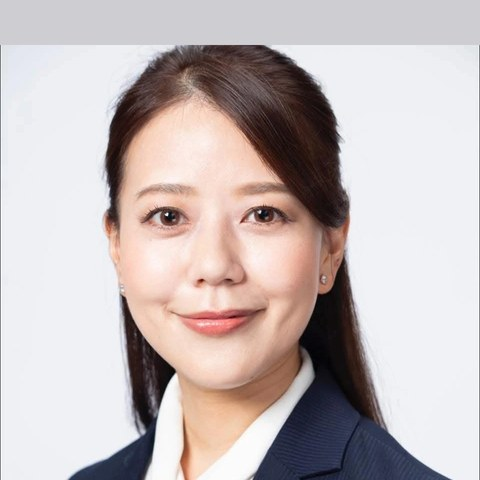
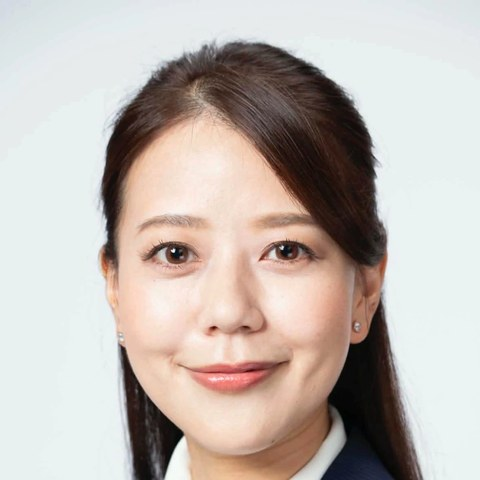
首長コメント: 八幡市長の写真を差し替え、並びを戸田市長の次へ

diff --git a/index.html b/index.html
@@ -253,14 +253,6 @@
 <div class="sec-head reveal"><div class="sec-en">Messages</div><h2 class="sec-ja sec-ja-final">各地の市長・区長からも応援いただいています！</h2></div>
 <div class="ed-list">
 <article class="ed-item">
-<figure class="ed-photo"><img src="uploads/mayors/yawata.jpg" alt="川田 翔子さんの写真" loading="lazy">
-<figcaption class="ed-cap"><span class="ed-role">京都府八幡市長</span><span class="ed-name">川田 翔子</span></figcaption></figure>
-<div class="ed-body">
-<p class="ed-pull"><span class="mark">あたたかな人間性と爽やかな人当たり</span></p>
-<p class="ed-text">白井市長は同じ青年市長会の仲間として、あたたかな人間性と爽やかな人当たり、そして難しい局面の中、沢山の政策を実現して来られた確かな実現力を拝見しており、先輩として尊敬しております。応援しています！頑張ってください！</p>
-</div>
-</article>
-<article class="ed-item rev">
 <figure class="ed-photo"><img src="uploads/mayors/kodaira.jpg" alt="小林 洋子さんの写真" loading="lazy">
 <figcaption class="ed-cap"><span class="ed-role">小平市長</span><span class="ed-name">小林 洋子</span></figcaption></figure>
 <div class="ed-body">
@@ -268,7 +260,7 @@
 <p class="ed-text">隣市として、また昭和病院企業団や湖南衛生組合で共に歩む仲間です。弁当や朝食を担当しながらご自身の子育て経験を市政に生かして頑張る白井さんを心から応援しています。</p>
 </div>
 </article>
-<article class="ed-item">
+<article class="ed-item rev">
 <figure class="ed-photo"><img src="uploads/mayors/tachikawa.jpg" alt="酒井 大史さんの写真" loading="lazy">
 <figcaption class="ed-cap"><span class="ed-role">立川市長</span><span class="ed-name">酒井 大史</span></figcaption></figure>
 <div class="ed-body">
@@ -276,7 +268,7 @@
 <p class="ed-text">白井市長は、子どもから高齢者まで多様な声を束ね前進させる&quot;ハブ&quot;のような包摂力の持ち主。インクルーシブな小金井市の実現を確信し、同世代の市長として応援します。</p>
 </div>
 </article>
-<article class="ed-item rev">
+<article class="ed-item">
 <figure class="ed-photo"><img src="uploads/mayors/nakano.jpg" alt="酒井 直人さんの写真" loading="lazy">
 <figcaption class="ed-cap"><span class="ed-role">中野区長</span><span class="ed-name">酒井 直人</span></figcaption></figure>
 <div class="ed-body">
@@ -284,12 +276,20 @@
 <p class="ed-text">国政と市政は全く異なります。住民に最も身近な地方政府として、JR中央線の自治体同士、小金井市と中野区で連携し地方自治を進めて行きましょう！白井市長、頑張って！</p>
 </div>
 </article>
-<article class="ed-item">
+<article class="ed-item rev">
 <figure class="ed-photo"><img src="uploads/mayors/toda.jpg" alt="菅原 文仁さんの写真" loading="lazy">
 <figcaption class="ed-cap"><span class="ed-role">埼玉県戸田市長</span><span class="ed-name">菅原 文仁</span></figcaption></figure>
 <div class="ed-body">
 <p class="ed-pull"><span class="mark">難しい市政課題に真正面から立ち向かう白井市長</span></p>
 <p class="ed-text">全国青年市長会関東支部で共に切磋琢磨してきました。今後の厳しい社会情勢の中、難しい市政課題に真正面から立ち向かう白井市長を応援しています！</p>
+</div>
+</article>
+<article class="ed-item">
+<figure class="ed-photo"><img src="uploads/mayors/yawata.jpg" alt="川田 翔子さんの写真" loading="lazy">
+<figcaption class="ed-cap"><span class="ed-role">京都府八幡市長</span><span class="ed-name">川田 翔子</span></figcaption></figure>
+<div class="ed-body">
+<p class="ed-pull"><span class="mark">あたたかな人間性と爽やかな人当たり</span></p>
+<p class="ed-text">白井市長は同じ青年市長会の仲間として、あたたかな人間性と爽やかな人当たり、そして難しい局面の中、沢山の政策を実現して来られた確かな実現力を拝見しており、先輩として尊敬しております。応援しています！頑張ってください！</p>
 </div>
 </article>
 <article class="ed-item rev">
@@ -319,23 +319,23 @@
 </div>
 <div class="rel">
 <div class="rel-cap"><b>つながり</b><span>図の中の言葉は、それぞれのコメントから。</span></div>
-<div class="rel-map" role="img" aria-label="白井とおるを中心に、川田 翔子さん(線の言葉「同じ青年市長会の仲間」)、小林 洋子さん(線の言葉「隣市として」)、酒井 大史さん(線の言葉「同世代の市長」)、酒井 直人さん(線の言葉「JR中央線の自治体同士」)、菅原 文仁さん(線の言葉「青年市長会関東支部」)、濵﨑 真也さん(線の言葉「同世代・近隣市長」)、森澤 恭子さん(線の言葉「議員時代からご縁」)、山本 けいさん(線の言葉「青年市長会の仲間」)を線で結んだ図">
-<svg class="svg-pc" viewBox="0 0 1104 620" preserveAspectRatio="none" aria-hidden="true"><polyline points="155.4,188.8 234.7,205.0 552,270 964.1,238.3 1013.5,234.4" fill="none" stroke="#f7a86b" stroke-opacity=".55" stroke-width="10" stroke-linecap="round" stroke-linejoin="round"/><line x1="552" y1="270" x2="100.0" y2="240.0" stroke="#0079bf" stroke-width="2" stroke-dasharray="8 7"/><line x1="552" y1="270" x2="413.3" y2="74.1" stroke="#0079bf" stroke-width="2"/><line x1="552" y1="270" x2="234.7" y2="205.0" stroke="#0079bf" stroke-width="2"/><line x1="552" y1="270" x2="964.1" y2="238.3" stroke="#0079bf" stroke-width="2"/><line x1="552" y1="270" x2="783.2" y2="78.8" stroke="#0079bf" stroke-width="2"/><line x1="552" y1="270" x2="342.4" y2="423.8" stroke="#0079bf" stroke-width="2"/><line x1="552" y1="270" x2="1019.6" y2="497.8" stroke="#0079bf" stroke-width="2"/><line x1="552" y1="270" x2="100.0" y2="401.7" stroke="#0079bf" stroke-width="2" stroke-dasharray="8 7"/><rect x="217.6" y="355.8" width="18" height="18" fill="#fff" transform="rotate(163.8 226.6 364.8)"/><line x1="237.6" y1="370.6" x2="223.2" y2="356.8" stroke="#0079bf" stroke-width="2"/><line x1="229.9" y1="372.9" x2="215.5" y2="359.0" stroke="#0079bf" stroke-width="2"/><rect x="154.3" y="235.2" width="18" height="18" fill="#fff" transform="rotate(-176.2 163.3 244.2)"/><line x1="171.7" y1="253.4" x2="162.9" y2="235.5" stroke="#0079bf" stroke-width="2"/><line x1="163.7" y1="252.9" x2="154.9" y2="234.9" stroke="#0079bf" stroke-width="2"/></svg>
-<svg class="svg-sp" viewBox="0 0 360 620" preserveAspectRatio="none" aria-hidden="true"><polyline points="25.0,167.5 56.0,196.0 180,310 304.0,204.0 318.9,191.3" fill="none" stroke="#f7a86b" stroke-opacity=".55" stroke-width="7" stroke-linecap="round" stroke-linejoin="round"/><line x1="180" y1="310" x2="58.0" y2="448.0" stroke="#0079bf" stroke-width="2" stroke-dasharray="8 7"/><line x1="180" y1="310" x2="112.0" y2="70.0" stroke="#0079bf" stroke-width="2"/><line x1="180" y1="310" x2="56.0" y2="196.0" stroke="#0079bf" stroke-width="2"/><line x1="180" y1="310" x2="304.0" y2="204.0" stroke="#0079bf" stroke-width="2"/><line x1="180" y1="310" x2="282.0" y2="76.0" stroke="#0079bf" stroke-width="2"/><line x1="180" y1="310" x2="56.0" y2="326.0" stroke="#0079bf" stroke-width="2"/><line x1="180" y1="310" x2="300.0" y2="330.0" stroke="#0079bf" stroke-width="2"/><line x1="180" y1="310" x2="184.0" y2="540.0" stroke="#0079bf" stroke-width="2" stroke-dasharray="8 7"/><rect x="173.9" y="466.6" width="18" height="18" fill="#fff" transform="rotate(89.0 182.9 475.6)"/><line x1="191.4" y1="466.5" x2="174.2" y2="476.8" stroke="#0079bf" stroke-width="2"/><line x1="191.5" y1="474.4" x2="174.4" y2="484.7" stroke="#0079bf" stroke-width="2"/><rect x="66.1" y="419.7" width="18" height="18" fill="#fff" transform="rotate(131.5 75.1 428.7)"/><line x1="87.5" y1="427.7" x2="67.9" y2="423.7" stroke="#0079bf" stroke-width="2"/><line x1="82.2" y1="433.7" x2="62.6" y2="429.7" stroke="#0079bf" stroke-width="2"/></svg>
-<span class="rel-tie" style="--x:32.80%;--y:41.51%">同じ青年市長会の仲間</span>
+<div class="rel-map" role="img" aria-label="白井とおるを中心に、小林 洋子さん(線の言葉「隣市として」)、酒井 大史さん(線の言葉「同世代の市長」)、酒井 直人さん(線の言葉「JR中央線の自治体同士」)、菅原 文仁さん(線の言葉「青年市長会関東支部」)、川田 翔子さん(線の言葉「同じ青年市長会の仲間」)、濵﨑 真也さん(線の言葉「同世代・近隣市長」)、森澤 恭子さん(線の言葉「議員時代からご縁」)、山本 けいさん(線の言葉「青年市長会の仲間」)を線で結んだ図">
+<svg class="svg-pc" viewBox="0 0 1104 620" preserveAspectRatio="none" aria-hidden="true"><polyline points="155.4,188.8 234.7,205.0 552,270 964.1,238.3 1013.5,234.4" fill="none" stroke="#f7a86b" stroke-opacity=".55" stroke-width="10" stroke-linecap="round" stroke-linejoin="round"/><line x1="552" y1="270" x2="413.3" y2="74.1" stroke="#0079bf" stroke-width="2"/><line x1="552" y1="270" x2="234.7" y2="205.0" stroke="#0079bf" stroke-width="2"/><line x1="552" y1="270" x2="964.1" y2="238.3" stroke="#0079bf" stroke-width="2"/><line x1="552" y1="270" x2="783.2" y2="78.8" stroke="#0079bf" stroke-width="2"/><line x1="552" y1="270" x2="100.0" y2="240.0" stroke="#0079bf" stroke-width="2" stroke-dasharray="8 7"/><line x1="552" y1="270" x2="342.4" y2="423.8" stroke="#0079bf" stroke-width="2"/><line x1="552" y1="270" x2="1019.6" y2="497.8" stroke="#0079bf" stroke-width="2"/><line x1="552" y1="270" x2="100.0" y2="401.7" stroke="#0079bf" stroke-width="2" stroke-dasharray="8 7"/><rect x="217.6" y="355.8" width="18" height="18" fill="#fff" transform="rotate(163.8 226.6 364.8)"/><line x1="237.6" y1="370.6" x2="223.2" y2="356.8" stroke="#0079bf" stroke-width="2"/><line x1="229.9" y1="372.9" x2="215.5" y2="359.0" stroke="#0079bf" stroke-width="2"/><rect x="154.3" y="235.2" width="18" height="18" fill="#fff" transform="rotate(-176.2 163.3 244.2)"/><line x1="171.7" y1="253.4" x2="162.9" y2="235.5" stroke="#0079bf" stroke-width="2"/><line x1="163.7" y1="252.9" x2="154.9" y2="234.9" stroke="#0079bf" stroke-width="2"/></svg>
+<svg class="svg-sp" viewBox="0 0 360 620" preserveAspectRatio="none" aria-hidden="true"><polyline points="25.0,167.5 56.0,196.0 180,310 304.0,204.0 318.9,191.3" fill="none" stroke="#f7a86b" stroke-opacity=".55" stroke-width="7" stroke-linecap="round" stroke-linejoin="round"/><line x1="180" y1="310" x2="112.0" y2="70.0" stroke="#0079bf" stroke-width="2"/><line x1="180" y1="310" x2="56.0" y2="196.0" stroke="#0079bf" stroke-width="2"/><line x1="180" y1="310" x2="304.0" y2="204.0" stroke="#0079bf" stroke-width="2"/><line x1="180" y1="310" x2="282.0" y2="76.0" stroke="#0079bf" stroke-width="2"/><line x1="180" y1="310" x2="58.0" y2="448.0" stroke="#0079bf" stroke-width="2" stroke-dasharray="8 7"/><line x1="180" y1="310" x2="56.0" y2="326.0" stroke="#0079bf" stroke-width="2"/><line x1="180" y1="310" x2="300.0" y2="330.0" stroke="#0079bf" stroke-width="2"/><line x1="180" y1="310" x2="184.0" y2="540.0" stroke="#0079bf" stroke-width="2" stroke-dasharray="8 7"/><rect x="173.9" y="466.6" width="18" height="18" fill="#fff" transform="rotate(89.0 182.9 475.6)"/><line x1="191.4" y1="466.5" x2="174.2" y2="476.8" stroke="#0079bf" stroke-width="2"/><line x1="191.5" y1="474.4" x2="174.4" y2="484.7" stroke="#0079bf" stroke-width="2"/><rect x="66.1" y="419.7" width="18" height="18" fill="#fff" transform="rotate(131.5 75.1 428.7)"/><line x1="87.5" y1="427.7" x2="67.9" y2="423.7" stroke="#0079bf" stroke-width="2"/><line x1="82.2" y1="433.7" x2="62.6" y2="429.7" stroke="#0079bf" stroke-width="2"/></svg>
 <span class="rel-tie" style="--x:43.47%;--y:27.12%">隣市として</span>
 <span class="rel-tie" style="--x:31.90%;--y:36.95%">同世代の市長</span>
 <span class="rel-tie" style="--x:70.53%;--y:40.73%">JR中央線の自治体同士</span>
 <span class="rel-tie" style="--x:60.89%;--y:27.51%">青年市長会関東支部</span>
+<span class="rel-tie" style="--x:32.80%;--y:41.51%">同じ青年市長会の仲間</span>
 <span class="rel-tie" style="--x:39.75%;--y:56.94%">同世代・近隣市長</span>
 <span class="rel-tie" style="--x:71.18%;--y:61.92%">議員時代からご縁</span>
 <span class="rel-tie" style="--x:33.21%;--y:52.26%">青年市長会の仲間</span>
 <div class="rel-center" style="--x:50.00%;--y:43.55%;--mx:50.00%;--my:50.00%"><img src="uploads/mayors/shirai.jpg" alt=""><b>白井とおる</b></div>
-<div class="rel-node" style="--x:9.06%;--y:38.70%;--mx:16.11%;--my:72.26%"><img src="uploads/mayors/yawata.jpg" alt="" loading="lazy"><b>川田 翔子</b><span class="tie-sp">同じ青年市長会の仲間</span></div>
 <div class="rel-node" style="--x:37.44%;--y:11.96%;--mx:31.11%;--my:11.29%"><img src="uploads/mayors/kodaira.jpg" alt="" loading="lazy"><b>小林 洋子</b><span class="tie-sp">隣市として</span></div>
 <div class="rel-node" style="--x:21.26%;--y:33.07%;--mx:15.56%;--my:31.61%"><img src="uploads/mayors/tachikawa.jpg" alt="" loading="lazy"><b>酒井 大史</b><span class="tie-sp">同世代の市長</span></div>
 <div class="rel-node" style="--x:87.33%;--y:38.43%;--mx:84.44%;--my:32.90%"><img src="uploads/mayors/nakano.jpg" alt="" loading="lazy"><b>酒井 直人</b><span class="tie-sp">JR中央線の自治体同士</span></div>
 <div class="rel-node" style="--x:70.94%;--y:12.71%;--mx:78.33%;--my:12.26%"><img src="uploads/mayors/toda.jpg" alt="" loading="lazy"><b>菅原 文仁</b><span class="tie-sp">青年市長会関東支部</span></div>
+<div class="rel-node" style="--x:9.06%;--y:38.70%;--mx:16.11%;--my:72.26%"><img src="uploads/mayors/yawata.jpg" alt="" loading="lazy"><b>川田 翔子</b><span class="tie-sp">同じ青年市長会の仲間</span></div>
 <div class="rel-node" style="--x:31.01%;--y:68.35%;--mx:15.56%;--my:52.58%"><img src="uploads/mayors/kunitachi.jpg" alt="" loading="lazy"><b>濵﨑 真也</b><span class="tie-sp">同世代・近隣市長</span></div>
 <div class="rel-node" style="--x:92.36%;--y:80.28%;--mx:83.33%;--my:53.23%"><img src="uploads/mayors/shinagawa.jpg" alt="" loading="lazy"><b>森澤 恭子</b><span class="tie-sp">議員時代からご縁</span></div>
 <div class="rel-node" style="--x:9.06%;--y:64.79%;--mx:51.11%;--my:87.10%"><img src="uploads/mayors/katano.jpg" alt="" loading="lazy"><b>山本 けい</b><span class="tie-sp">青年市長会の仲間</span></div>
